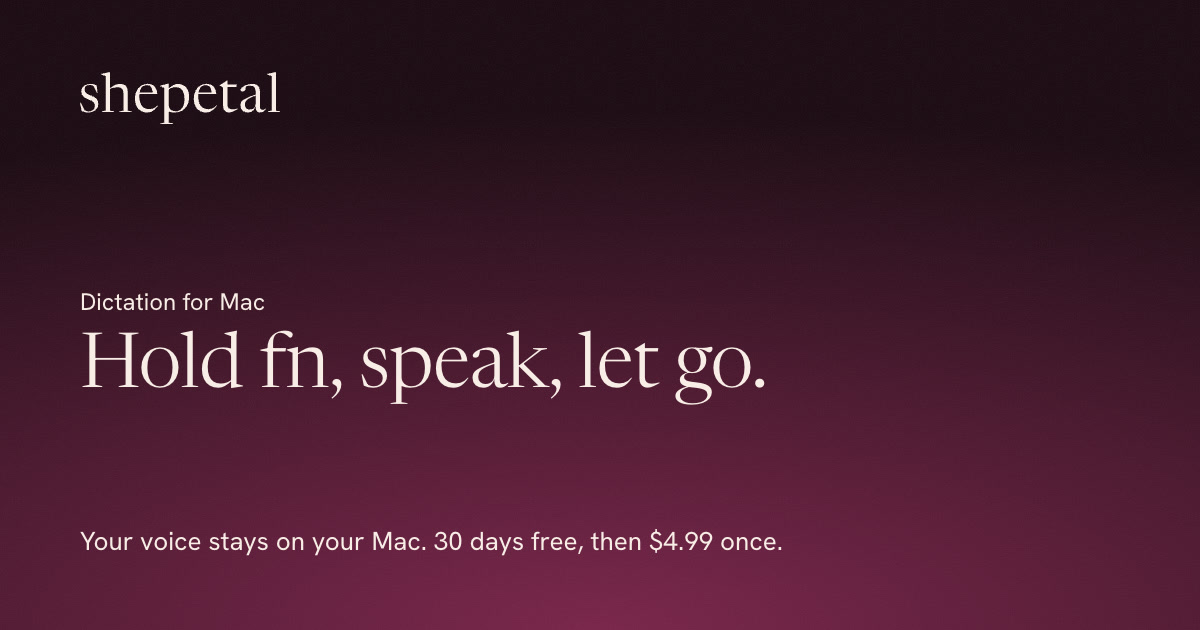
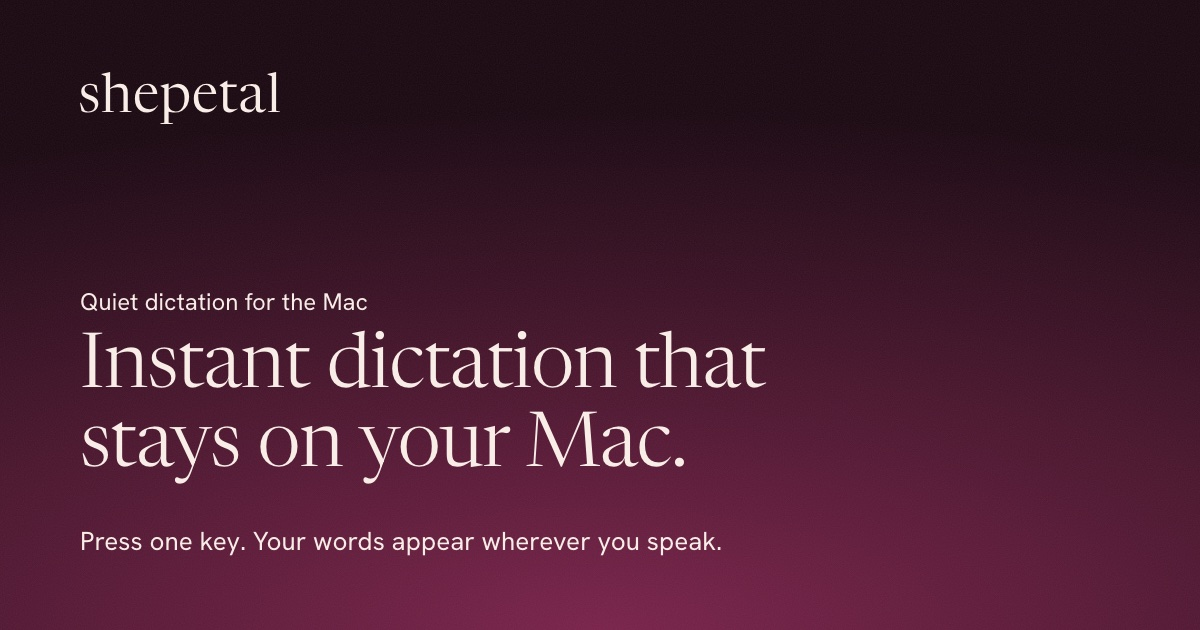
Adopt the brand system on the site

Changed region(s): [[0.0617, 0.4524, 0.6475, 0.754], [0.0617, 0.8444, 0.6475, 0.8746]]

diff --git a/web/src/app/(site)/layout.tsx b/web/src/app/(site)/layout.tsx
@@ -10,14 +10,15 @@ import './landing.css';
 
 const title = 'shepetal: dictation that stays on your Mac';
 const description =
-  'Dictation for Mac. Hold fn, speak, let go: your words land in any app, and speech recognition runs on your Mac, so your voice stays on it. 30 days free, then $4.99 once.';
+  'Quiet dictation for the Mac. Press one key. Your words appear wherever you speak, and your voice stays on your Mac.';
+// brand/assets/og/og-dark.png as a JPEG; the brand keeps the price and the steps off link previews.
 // A static file, so link previews (X, iMessage, Slack) get it from the edge without waking the Worker.
 const ogImage = {
   url: '/og.jpg',
   width: 1200,
   height: 630,
   type: 'image/jpeg',
-  alt: 'shepetal. Dictation for Mac. Hold fn, speak, let go. Your voice stays on your Mac. 30 days free, then $4.99 once.',
+  alt: 'shepetal. Quiet dictation for the Mac. Instant dictation that stays on your Mac. Press one key. Your words appear wherever you speak.',
 };
 
 export const metadata: Metadata = {

diff --git a/web/src/app/(site)/landing.test.ts b/web/src/app/(site)/landing.test.ts
@@ -54,6 +54,13 @@ describe('landing page', () => {
     expect(page).toMatch(/measured on an M4 Pro\.\s*<Ref n=\{3\} first \/>/);
   });
 
+  it('keeps the price and the steps off the link preview, as the brand asks, so a shared link sells the outcome', () => {
+    const preview = [read(join(__dirname, 'layout.tsx')), read(join(SRC, 'app', 'layout.tsx'))]
+      .flatMap((f) => [...f.matchAll(/\b(?:description|alt)\s*[:=]\s*'([^']*)'/g)].map((m) => m[1]));
+    expect(preview.length).toBeGreaterThanOrEqual(3);
+    for (const line of preview) expect(line).not.toMatch(/\$|\bonce\b|\bfree\b|hold fn|let go/i);
+  });
+
   it('keeps the brand voice: no em dashes, no hype words, no invented proof', () => {
     expect(text).not.toContain('—');
     expect(visible).not.toMatch(/\b(seamless|magic|magical|revolutionary|blazing|lightning|supercharge|unlock|lifetime deal|cheap|fastest|best)\b/i);

diff --git a/web/src/app/layout.tsx b/web/src/app/layout.tsx
@@ -3,7 +3,7 @@ import './globals.css';
 
 export const metadata: Metadata = {
   title: 'shepetal',
-  description: 'Dictation that runs fully on your Mac. Hold fn to talk. Nothing leaves your computer.',
+  description: 'Quiet dictation for the Mac. Your voice stays on your Mac.',
   metadataBase: new URL('https://shepetal.backant.io'),
 };
 

diff --git a/web/BRAND.md b/web/BRAND.md
@@ -12,7 +12,7 @@ The source of truth is `brand/` at the repo root (version 2.1, on branch `feat/b
 | `public/brand/shepetal-wordmark-*.svg` | `logo/` | The logo, on-light and on-dark. The `small` master is for 80 to 160 px wide (the header); the full wordmark is for 160 px and up. |
 | `public/favicon.ico`, `favicon.svg`, `apple-touch-icon.png`, `icon-192.png`, `icon-512.png`, `icon-maskable-512.png`, `site.webmanifest` | `assets/favicon/` | The tab and web app icons: the Noto 🤫. |
 | `public/brand/emoji/` | `icon/emoji/` | The unmodified Noto 🤫 (`emoji_u1f92b.svg`) for drawing the indicator, with its Apache 2.0 license and attribution notice, which must ship with the site. |
-| `public/og.jpg` | rendered from `assets/og/og-template.html` | The link preview, 1200 × 630 JPEG on the afterglow: "Hold fn, speak, let go." A static file at an absolute URL (`openGraph.images` in the site layout), so X and other cards fetch it without waking the Worker. |
+| `public/og.jpg` | `assets/og/og-dark.png`, saved as JPEG | The link preview, 1200 × 630 on the afterglow: "Instant dictation that stays on your Mac." A static file at an absolute URL (`openGraph.images` in the site layout), so X and other cards fetch it without waking the Worker. |
 | `public/brand/imagery/` | `assets/imagery/` | Version 1 images, AVIF and WebP, 2,400 px wide: `mist-lake`, `night-air`, `dusk-room`, `river-fog`. |
 | `public/brand/imagery/{last-light,dusk-air,train,valley}-*` | made for the landing page | Version 2 photographs from the imagery prompts in `identity.md` (Last light, Dusk air, and two in the same style), AVIF and WebP in the widths in their names: the hero screen by day and by night, the offline scene and the name story. |
 | `src/app/(site)/fonts/` | `fonts/desktop/*.ttf`, cut by `fonts/subset.py` | The website's own cut of the brand fonts (Latin, Latin-1, š, typographic punctuation, the weights in use), renamed "shepetal Serif" and "shepetal Sans" as the OFL asks for modified fonts. 120 KB in place of 270 KB. `fonts.css` puts them first in `--sh-font-display` and `--sh-font-text`; the full fonts stay as the fallback. |
@@ -26,6 +26,12 @@ cp brand/fonts/*.woff2 web/src/brand/fonts/ && cp brand/fonts/licenses/* web/src
 cp brand/logo/shepetal-wordmark-*.svg web/public/brand/
 cp brand/assets/favicon/{favicon.ico,favicon.svg,apple-touch-icon.png,icon-192.png,icon-512.png,icon-maskable-512.png,site.webmanifest} web/public/
 cp brand/icon/emoji/* web/public/brand/emoji/
+```
+
+and for the link preview:
+
+```
+sips -s format jpeg -s formatOptions 85 brand/assets/og/og-dark.png --out web/public/og.jpg
 ```
 
 and the same for any image listed above.
@@ -51,5 +57,7 @@ From `identity.md` and `voice.md`:
 - Motion uses the `--sh-dur-*` and `--sh-ease-*` tokens, which drop to 0 ms under reduced motion. Nothing bounces or overshoots.
 - Illustrations of where text lands (an editor, a terminal, a mail window) are labeled "Illustration" and name no real tool.
 - The approved lines ("Effortless voice-to-text that transforms the way you work.", "100% private. Your data is yours." and "Instant, real-time, 4x faster.") are used as written and always with their proof (`voice.md`, Approved lines): a footnote, a link to it, or the proof sentence close by.
+- Copy says what happens, never the steps: "Press one key. Your words appear wherever you speak." "Hold fn, speak, let go." and its variants are not brand copy. The app's own hint ("Hold fn to talk · double-tap for hands-free") may be shown as the app shows it.
+- Link previews (the description, the OG image and its alt text) carry no price.
 - Never name a speech recognition or AI model. No made-up testimonials, user counts, ratings or logos.
 - Where Apple products are named, the footer carries: "Mac and macOS are trademarks of Apple Inc., registered in the U.S. and other countries and regions." Write "Apple silicon" with a lowercase s.
